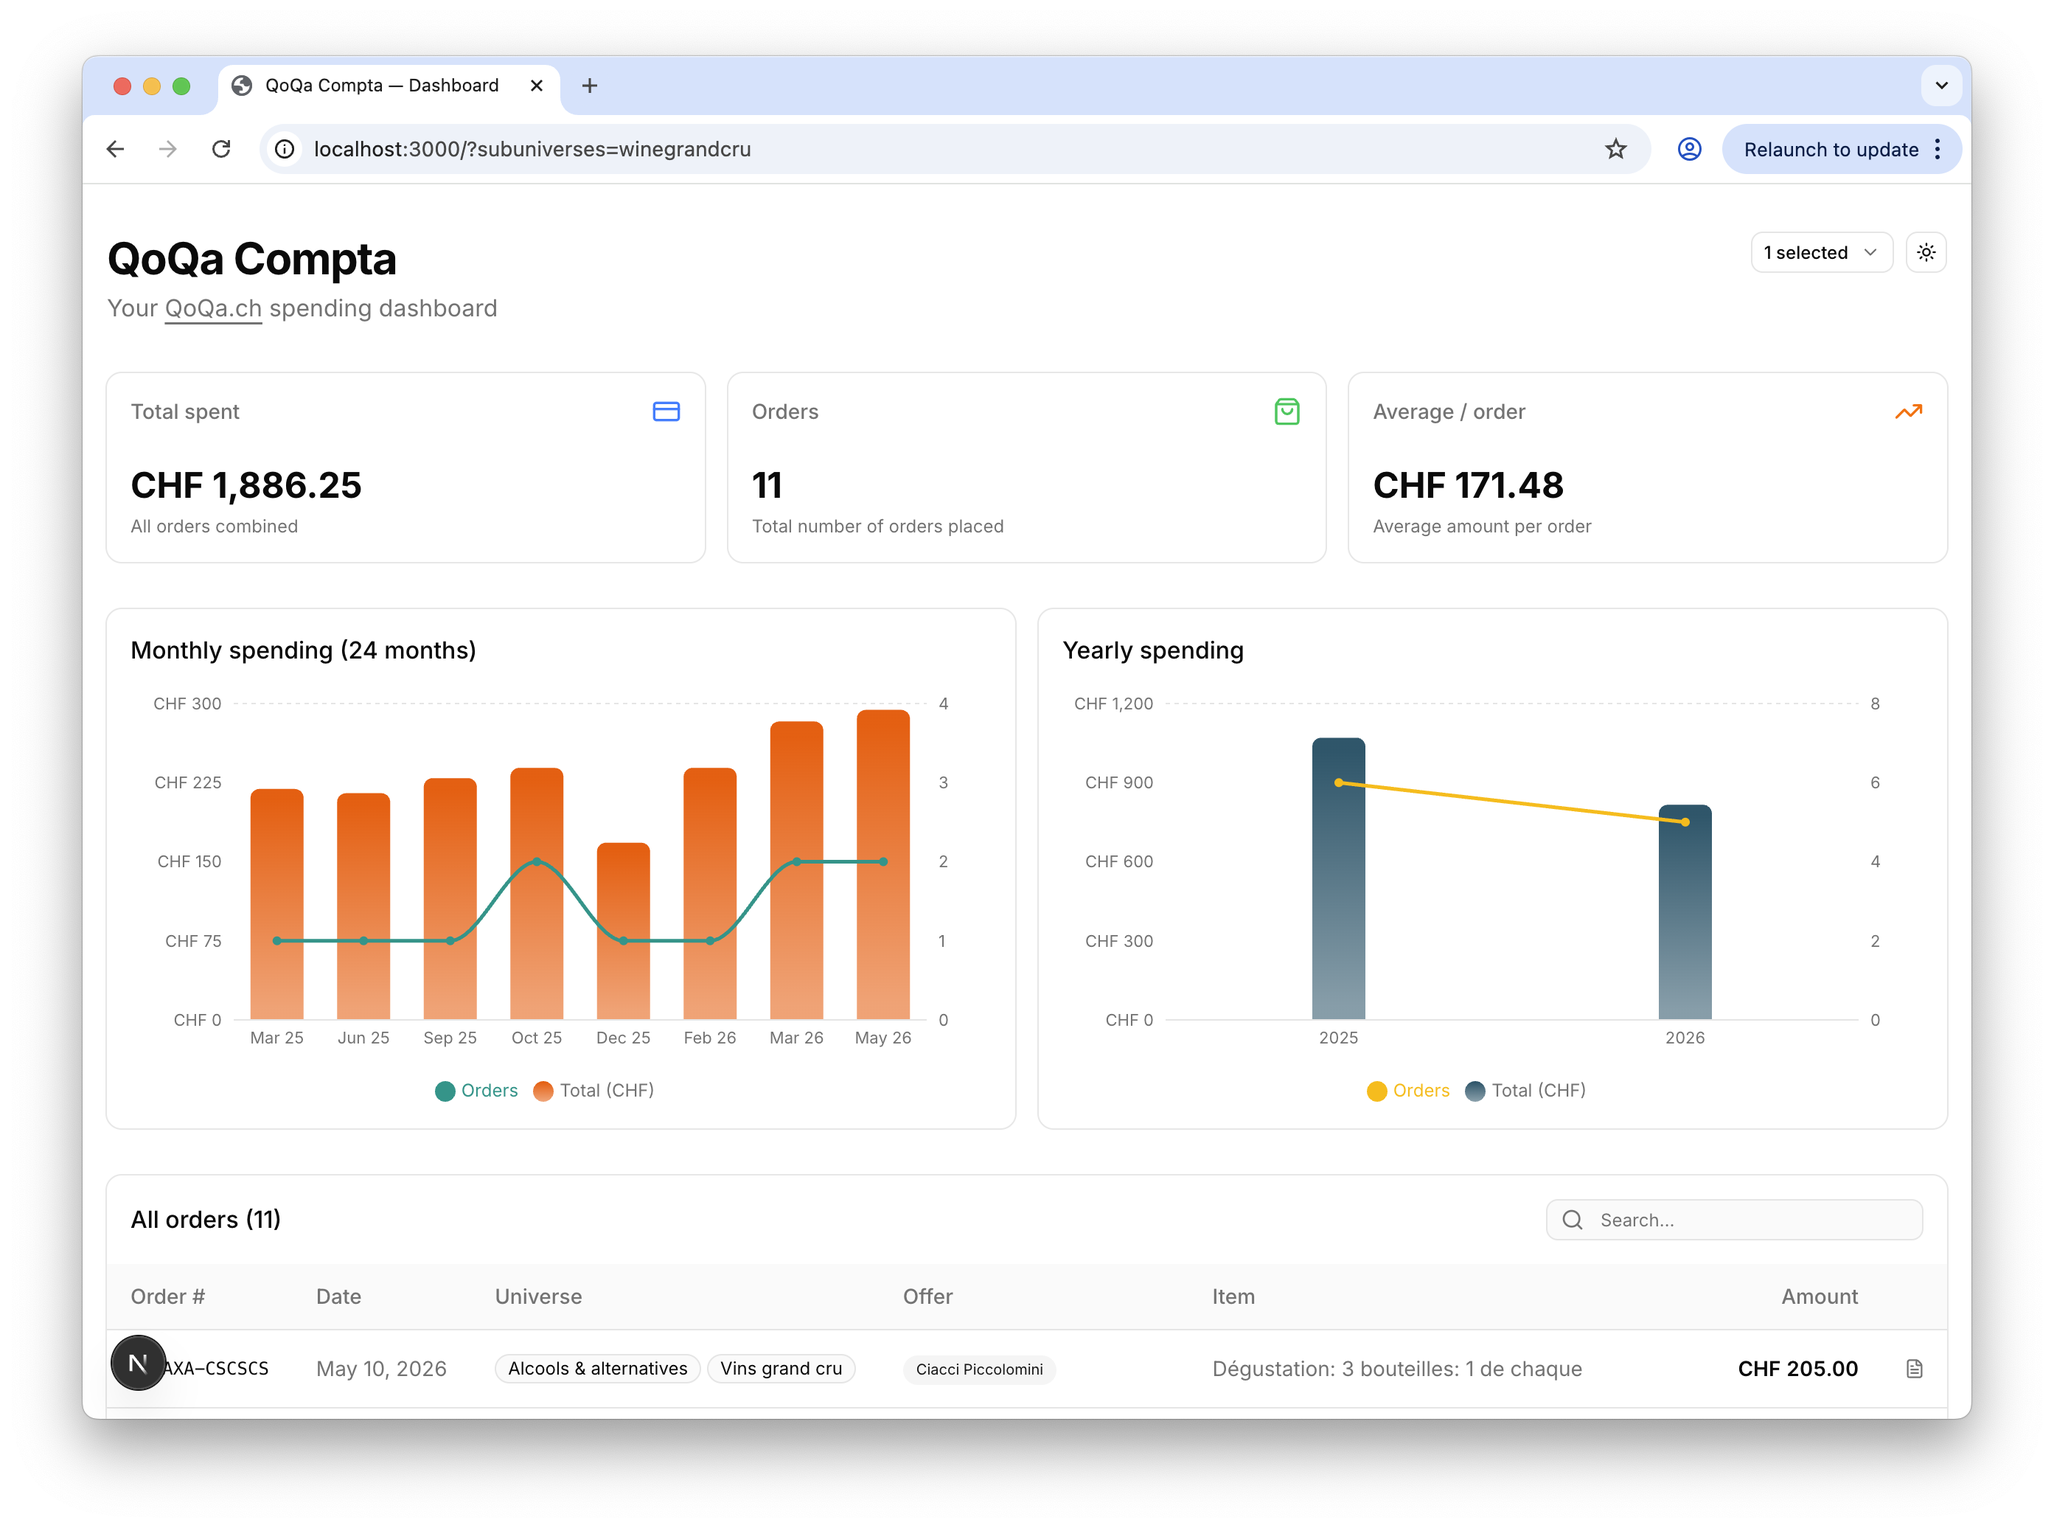
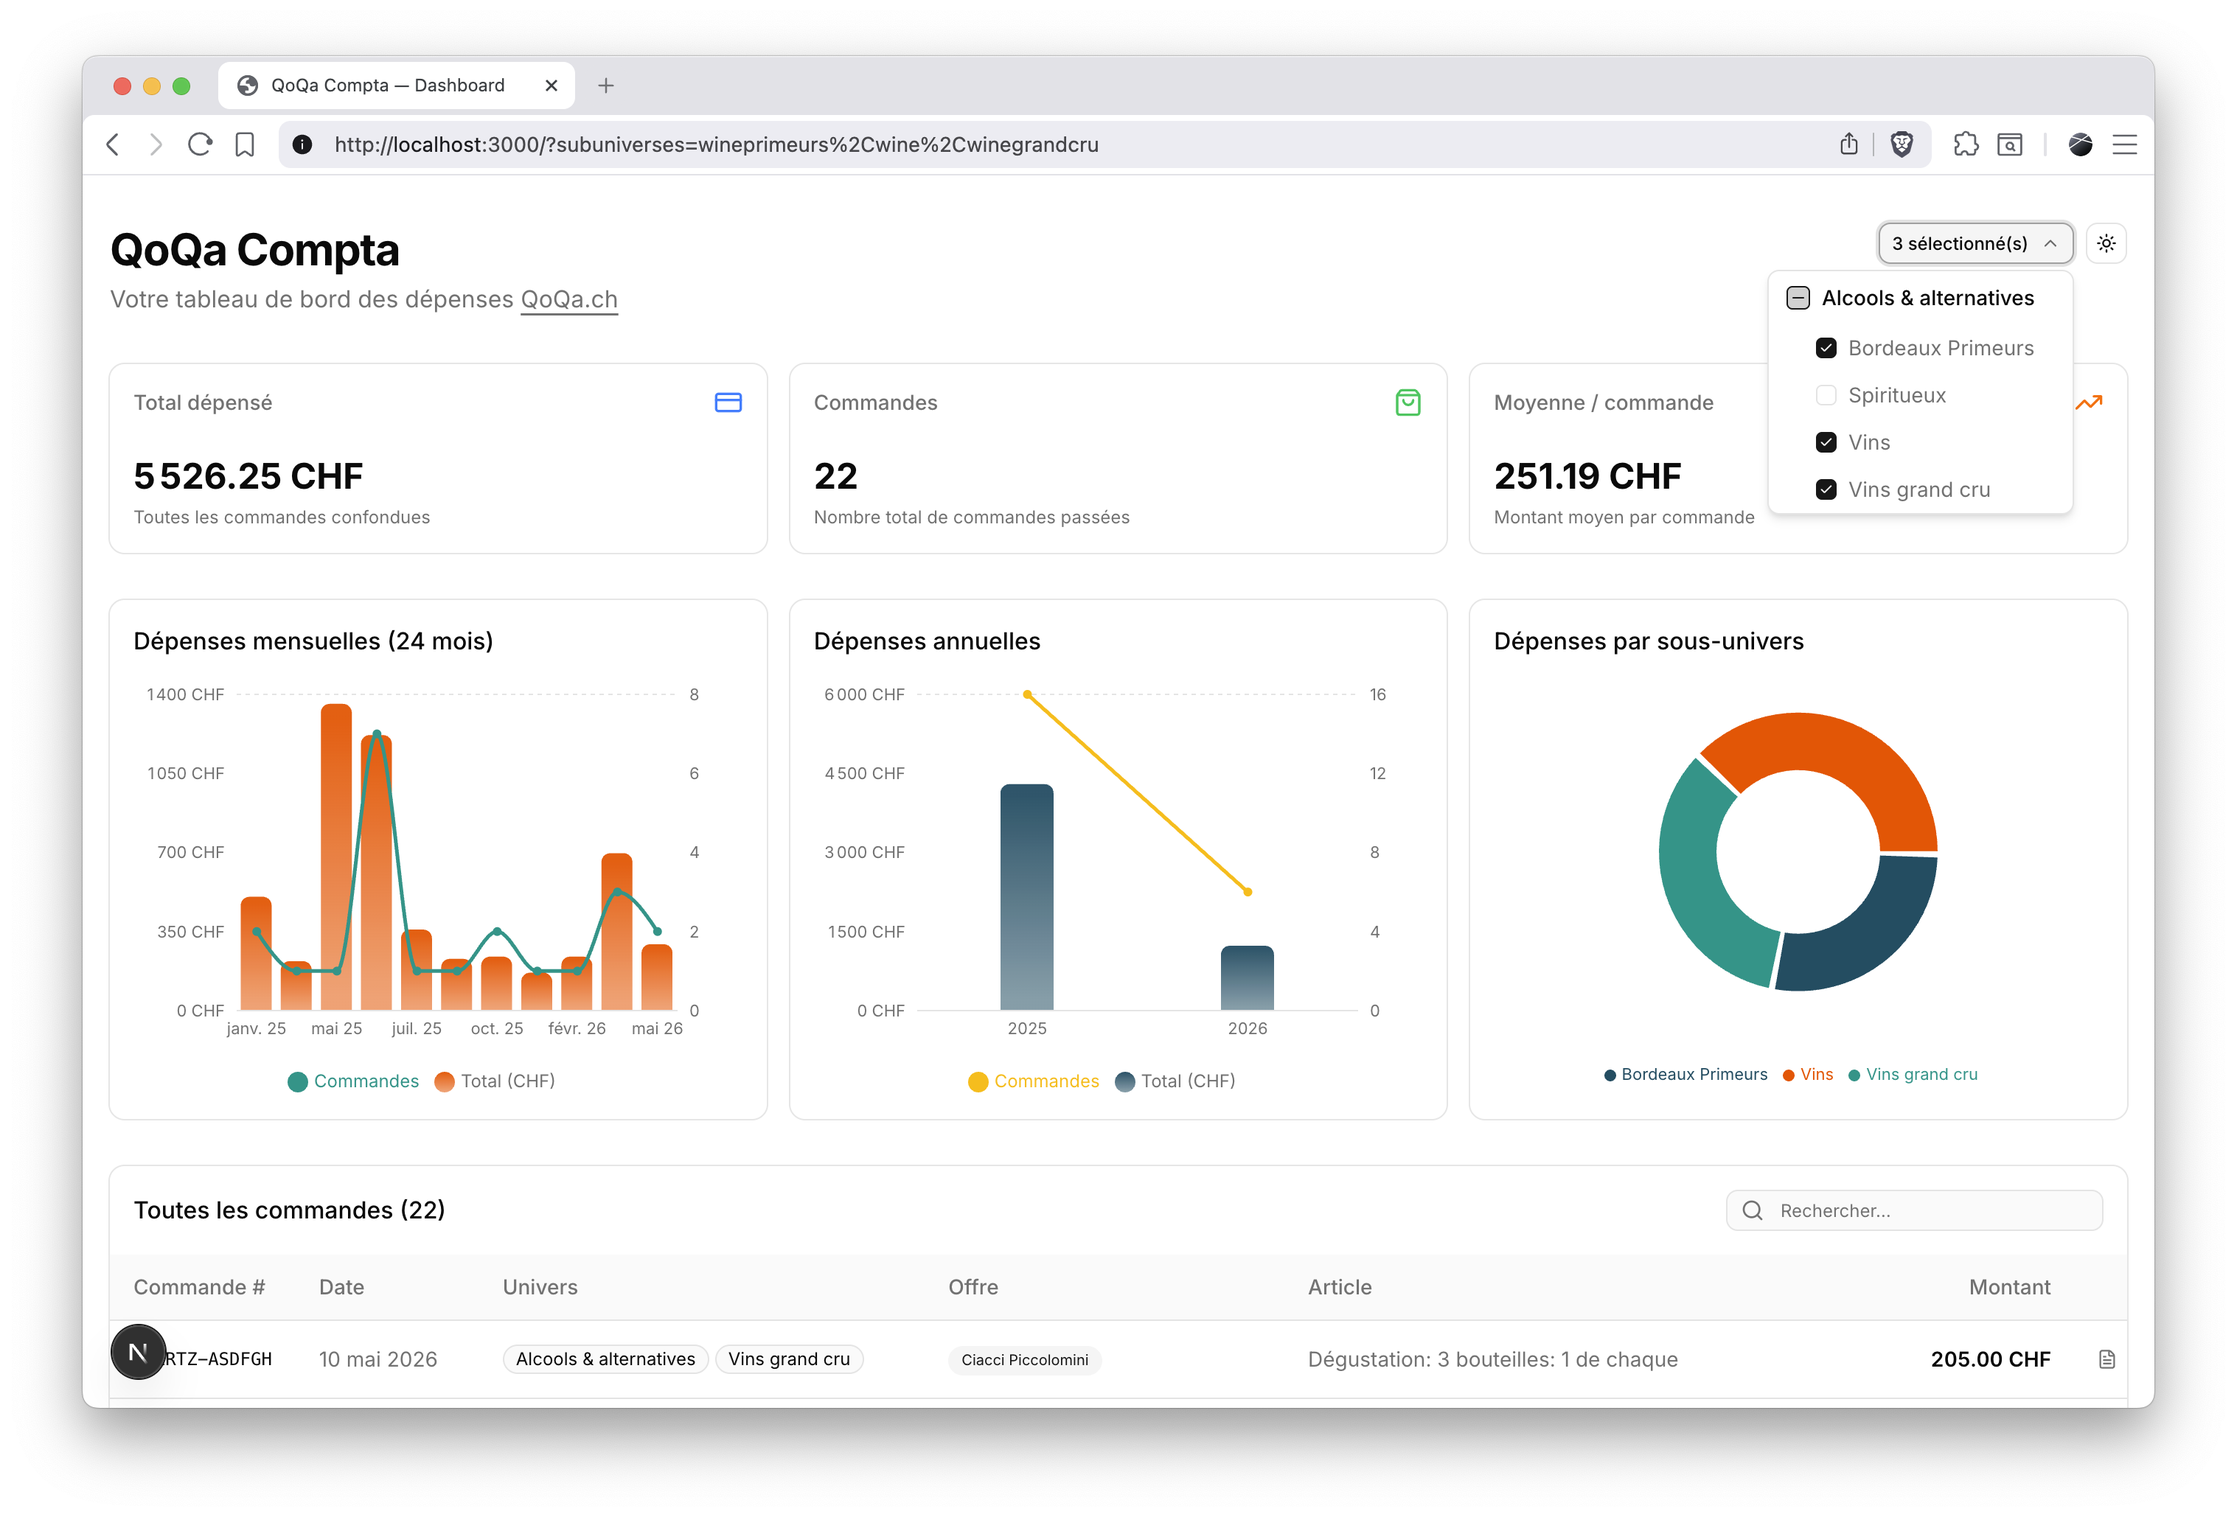
feat: add spending repartition pie chart (#32)

diff --git a/frontend/src/app/page.tsx b/frontend/src/app/page.tsx
@@ -1,15 +1,3 @@
-/**
- * Main dashboard — home page of the QoQa Compta application.
- *
- * Fetches data server-side via the /api/orders API route and renders:
- *   - Universe picker (top-right header)
- *   - Stats cards (total, count, average)
- *   - Spending charts (monthly bar+line, yearly)
- *   - Orders table with search/filters
- *
- * The page is fully dynamic (no ISR) because it reads URL search params
- * to apply the universe filter across all dashboard data.
- */
 import { Suspense } from "react";
 import { getTranslations } from "next-intl/server";
 import {
@@ -19,24 +7,13 @@ import {
   fetchInitialOrders,
   fetchTotalCount,
   fetchUniverses,
+  fetchSpendingByGroup,
 } from "@/lib/queries";
 import { StatsCards } from "@/components/stats-cards";
 import { SpendingChart } from "@/components/spending-chart";
 import { OrdersTable } from "@/components/orders-table";
 import { ThemeToggle } from "@/components/theme-toggle";
 import { UniversePicker } from "@/components/universe-picker";
-
-async function fetchDashboardData(universes: string[], subuniverses: string[]) {
-  const [stats, monthly, yearly, orders, total, availableUniverses] = await Promise.all([
-    fetchStats(universes, subuniverses),
-    fetchMonthlySpending(universes, subuniverses),
-    fetchYearlySpending(universes, subuniverses),
-    fetchInitialOrders(universes, subuniverses),
-    fetchTotalCount(universes, subuniverses),
-    fetchUniverses(),
-  ]);
-  return { stats, monthly, yearly, orders, total, availableUniverses };
-}
 
 export default async function DashboardPage({
   searchParams,
@@ -54,7 +31,49 @@ export default async function DashboardPage({
 
   let data;
   try {
-    data = await fetchDashboardData(selectedUniverses, selectedSubuniverses);
+    // Fetch universe metadata first — needed to resolve sub-universe parent
+    // universes and determine which pie chart mode to use.
+    const availableUniverses = await fetchUniverses();
+
+    // When nothing is selected, treat it as "all universes selected" so that
+    // every downstream query sees a concrete IN-list and returns all rows.
+    const effectiveUniverses =
+      selectedUniverses.length === 0 && selectedSubuniverses.length === 0
+        ? availableUniverses.map((u) => u.identifier)
+        : selectedUniverses;
+    const effectiveSubuniverses = selectedSubuniverses;
+
+    // Build a subuniverse→universe map to count distinct parent universes.
+    const subToUniverse = new Map(
+      availableUniverses.flatMap((u) =>
+        u.subuniverses.map((s) => [s.identifier, u.identifier])
+      )
+    );
+    const activeUniverseIds = new Set([
+      ...effectiveUniverses,
+      ...effectiveSubuniverses
+        .map((s) => subToUniverse.get(s))
+        .filter((v): v is string => v !== undefined),
+    ]);
+    const pieMode: "universe" | "subuniverse" | null =
+      activeUniverseIds.size === 0
+        ? null
+        : activeUniverseIds.size === 1
+        ? "subuniverse"
+        : "universe";
+
+    const [stats, monthly, yearly, orders, total, pieData] = await Promise.all([
+      fetchStats(effectiveUniverses, effectiveSubuniverses),
+      fetchMonthlySpending(effectiveUniverses, effectiveSubuniverses),
+      fetchYearlySpending(effectiveUniverses, effectiveSubuniverses),
+      fetchInitialOrders(effectiveUniverses, effectiveSubuniverses),
+      fetchTotalCount(effectiveUniverses, effectiveSubuniverses),
+      pieMode !== null
+        ? fetchSpendingByGroup(pieMode, effectiveUniverses, effectiveSubuniverses)
+        : Promise.resolve(null),
+    ]);
+
+    data = { stats, monthly, yearly, orders, total, availableUniverses, pieData, pieMode };
   } catch {
     return (
       <main className="container mx-auto px-4 py-8">
@@ -67,7 +86,7 @@ export default async function DashboardPage({
     );
   }
 
-  const { stats, monthly, yearly, orders, total, availableUniverses } = data;
+  const { stats, monthly, yearly, orders, total, availableUniverses, pieData, pieMode } = data;
 
   const subuniverseNames: Record<string, string> = Object.fromEntries(
     availableUniverses.flatMap((u) => u.subuniverses.map((s) => [s.identifier, s.name]))
@@ -113,7 +132,7 @@ export default async function DashboardPage({
 
       {/* Spending charts */}
       <Suspense fallback={<div className="h-72 animate-pulse rounded-xl bg-muted" />}>
-        <SpendingChart monthly={monthly} yearly={yearly} />
+        <SpendingChart monthly={monthly} yearly={yearly} pieData={pieData} pieMode={pieMode} />
       </Suspense>
 
       {/* Orders table */}

diff --git a/frontend/src/lib/queries.ts b/frontend/src/lib/queries.ts
@@ -7,12 +7,12 @@
  * SQLite caveats vs PostgreSQL:
  *  - LIKE instead of ILIKE (case-insensitive for ASCII only)
  *  - strftime() instead of TO_CHAR() / EXTRACT()
- *  - date('now', '-24 months') instead of NOW() - INTERVAL '24 months'
+ *  - date('now', '-N months') instead of NOW() - INTERVAL 'N months'
  *  - No ::float / ::int casts — CAST(x AS REAL/INTEGER) used instead
  */
 import { and, between, eq, getTableColumns, gte, inArray, lte, or, sql, SQL } from "drizzle-orm";
 import { db, isSqlite, qoqaOrders, qoqaSubuniverses, qoqaUniverses } from "./db";
-import type { OrderStats, MonthlySpending, SubuniverseOption, UniverseOption, YearlySpending } from "@/types/order";
+import type { OrderStats, MonthlySpending, SpendingByGroup, SubuniverseOption, UniverseOption, YearlySpending } from "@/types/order";
 import type { QoqaOrder } from "@/types/order";
 
 // ── Helpers ──────────────────────────────────────────────────────────────────
@@ -41,15 +41,10 @@ function yearOf(col: SQL): SQL<number> {
     : sql<number>`EXTRACT(YEAR FROM ${col})::int`;
 }
 
-function monthsAgo24(): SQL<string> {
-  return isSqlite
-    ? sql<string>`date('now', '-24 months')`
-    : sql<string>`CURRENT_DATE - INTERVAL '24 months'`;
-}
-
 /**
  * Builds a WHERE clause that filters by universe AND/OR subuniverse.
- * Returns FALSE when both lists are empty (no selection = zero results).
+ * Returns FALSE when both lists are empty — callers must expand an empty
+ * selection to the full list of identifiers before calling this function.
  *
  * - universes: filter orders where universe IN [...]
  * - subuniverses: filter orders where subuniverse IN [...]
@@ -176,7 +171,7 @@ export async function fetchMonthlySpending(
       count: asInt(sql`COUNT(*)`),
     })
     .from(qoqaOrders)
-    .where(and(sql`${qoqaOrders.order_date} >= ${monthsAgo24()}`, catClause))
+    .where(catClause)
     .groupBy(month)
     .orderBy(month) as Promise<MonthlySpending[]>;
 }
@@ -197,6 +192,57 @@ export async function fetchYearlySpending(
     .where(where)
     .groupBy(year)
     .orderBy(year) as Promise<YearlySpending[]>;
+}
+
+/**
+ * Returns spending totals grouped by universe or subuniverse for the pie chart.
+ *
+ * - mode "universe":    one row per universe, useful when multiple universes are selected
+ * - mode "subuniverse": one row per subuniverse, useful when a single universe is in scope
+ *
+ * The WHERE clause is the same as other queries (universe IN [...] OR subuniverse IN [...]).
+ * Results are ordered by total descending (largest slice first).
+ */
+export async function fetchSpendingByGroup(
+  mode: "universe" | "subuniverse",
+  universes: string[],
+  subuniverses: string[]
+): Promise<SpendingByGroup[]> {
+  const where = buildUniverseWhereClause(universes, subuniverses);
+
+  if (mode === "subuniverse") {
+    const rows = await db
+      .select({
+        identifier: sql<string>`${qoqaOrders.subuniverse}`,
+        name: sql<string>`COALESCE(${qoqaSubuniverses.name}, ${qoqaOrders.subuniverse})`,
+        total: asFloat(sql`SUM(${qoqaOrders.amount_chf})`),
+      })
+      .from(qoqaOrders)
+      .leftJoin(
+        qoqaSubuniverses,
+        sql`${qoqaOrders.subuniverse} = ${qoqaSubuniverses.identifier}`
+      )
+      .where(and(where, sql`${qoqaOrders.subuniverse} IS NOT NULL`))
+      .groupBy(sql`${qoqaOrders.subuniverse}`, sql`${qoqaSubuniverses.name}`)
+      .orderBy(sql`SUM(${qoqaOrders.amount_chf}) DESC`);
+    return rows as SpendingByGroup[];
+  }
+
+  const rows = await db
+    .select({
+      identifier: sql<string>`${qoqaOrders.universe}`,
+      name: sql<string>`COALESCE(${qoqaUniverses.name}, ${qoqaOrders.universe})`,
+      total: asFloat(sql`SUM(${qoqaOrders.amount_chf})`),
+    })
+    .from(qoqaOrders)
+    .leftJoin(
+      qoqaUniverses,
+      sql`${qoqaOrders.universe} = ${qoqaUniverses.universe_tracking_identifier}`
+    )
+    .where(and(where, sql`${qoqaOrders.universe} IS NOT NULL`))
+    .groupBy(sql`${qoqaOrders.universe}`, sql`${qoqaUniverses.name}`)
+    .orderBy(sql`SUM(${qoqaOrders.amount_chf}) DESC`);
+  return rows as SpendingByGroup[];
 }
 
 export interface OrdersFilter {

diff --git a/frontend/src/components/spending-pie-chart.tsx b/frontend/src/components/spending-pie-chart.tsx
@@ -1,0 +1,88 @@
+/**
+ * SpendingPieChart — donut chart showing spending repartition by universe or sub-universe.
+ *
+ * Rendered when the user has an active universe filter:
+ *   - 1 distinct parent universe in scope → breakdown by sub-universe
+ *   - ≥2 distinct parent universes in scope → breakdown by universe
+ */
+"use client";
+
+import { PieChart, Pie, Cell, Tooltip, Legend, ResponsiveContainer } from "recharts";
+import { Card, CardContent, CardHeader, CardTitle } from "@/components/ui/card";
+import { useFormatter } from "@/lib/formatter-context";
+import type { SpendingByGroup } from "@/types/order";
+
+const CHART_COLORS = [
+  "var(--chart-1)",
+  "var(--chart-2)",
+  "var(--chart-3)",
+  "var(--chart-4)",
+  "var(--chart-5)",
+];
+
+interface SpendingPieChartProps {
+  data: SpendingByGroup[];
+  title: string;
+}
+
+export function SpendingPieChart({ data, title }: SpendingPieChartProps) {
+  const { formatCHF } = useFormatter();
+  const grandTotal = data.reduce((sum, d) => sum + d.total, 0);
+
+  return (
+    <Card>
+      <CardHeader>
+        <CardTitle className="text-base">{title}</CardTitle>
+      </CardHeader>
+      <CardContent>
+        <ResponsiveContainer width="100%" height={280}>
+          <PieChart>
+            <Pie
+              data={data}
+              dataKey="total"
+              nameKey="name"
+              cx="50%"
+              cy="45%"
+              innerRadius={55}
+              outerRadius={95}
+              paddingAngle={2}
+            >
+              {data.map((entry, index) => (
+                <Cell
+                  key={entry.identifier}
+                  fill={CHART_COLORS[index % CHART_COLORS.length]}
+                />
+              ))}
+            </Pie>
+            <Tooltip
+              contentStyle={{
+                backgroundColor: "var(--popover)",
+                border: "1px solid var(--border)",
+                borderRadius: "var(--radius)",
+                color: "var(--popover-foreground)",
+                fontSize: 12,
+                boxShadow: "0 4px 12px rgb(0 0 0 / 0.08)",
+              }}
+              formatter={(value, name) => {
+                const pct =
+                  grandTotal > 0
+                    ? ((Number(value) / grandTotal) * 100).toFixed(1)
+                    : "0";
+                return [`${formatCHF(Number(value))} · ${pct}%`, name];
+              }}
+            />
+            <Legend
+              iconType="circle"
+              iconSize={8}
+              wrapperStyle={{
+                fontSize: 11,
+                color: "var(--muted-foreground)",
+                paddingTop: 8,
+              }}
+            />
+          </PieChart>
+        </ResponsiveContainer>
+      </CardContent>
+    </Card>
+  );
+}

diff --git a/frontend/src/components/spending-chart.tsx b/frontend/src/components/spending-chart.tsx
@@ -19,11 +19,14 @@ import {
 import { Card, CardContent, CardHeader, CardTitle } from "@/components/ui/card";
 import { useFormatter } from "@/lib/formatter-context";
 import { useTranslations } from "next-intl";
-import type { MonthlySpending, YearlySpending } from "@/types/order";
+import type { MonthlySpending, SpendingByGroup, YearlySpending } from "@/types/order";
+import { SpendingPieChart } from "@/components/spending-pie-chart";
 
 interface SpendingChartProps {
   monthly: MonthlySpending[];
   yearly: YearlySpending[];
+  pieData?: SpendingByGroup[] | null;
+  pieMode?: "universe" | "subuniverse" | null;
 }
 
 interface ChartCardProps {
@@ -139,7 +142,7 @@ function ChartCard({ title, data, gradientId, barColor, lineColor }: ChartCardPr
   );
 }
 
-export function SpendingChart({ monthly, yearly }: SpendingChartProps) {
+export function SpendingChart({ monthly, yearly, pieData, pieMode }: SpendingChartProps) {
   const { formatMonth } = useFormatter();
   const t = useTranslations("SpendingChart");
 
@@ -155,8 +158,13 @@ export function SpendingChart({ monthly, yearly }: SpendingChartProps) {
     orders: y.count,
   }));
 
+  const hasPie = pieData && pieData.length > 0;
+  const pieTitle = pieMode === "subuniverse"
+    ? t("pieBySubuniverseTitle")
+    : t("pieByUniverseTitle");
+
   return (
-    <div className="grid gap-4 md:grid-cols-2">
+    <div className={hasPie ? "grid gap-4 grid-cols-1 lg:grid-cols-3" : "grid gap-4 md:grid-cols-2"}>
       <ChartCard
         title={t("monthlyTitle")}
         data={monthlyData}
@@ -171,6 +179,9 @@ export function SpendingChart({ monthly, yearly }: SpendingChartProps) {
         barColor="var(--chart-3)"
         lineColor="var(--chart-4)"
       />
+      {hasPie && (
+        <SpendingPieChart data={pieData} title={pieTitle} />
+      )}
     </div>
   );
 }

diff --git a/frontend/src/types/order.ts b/frontend/src/types/order.ts
@@ -63,3 +63,9 @@ export interface YearlySpending {
   total: number;
   count: number;
 }
+
+export interface SpendingByGroup {
+  identifier: string;
+  name: string;
+  total: number;
+}

diff --git a/README.md b/README.md
@@ -97,7 +97,7 @@ The UI language is automatically detected from your browser's `Accept-Language` 
 
 Dashboard features:
 - **Stats cards** — total spent, number of orders, average per order
-- **Spending charts** — monthly (last 24 months) and yearly bar + line charts
+- **Spending charts** — monthly and yearly bar + line charts
 - **Orders table** — searchable, paginated list of all orders
 - **Invoice PDF viewer** — every order with a stored invoice exposes a "View
   invoice" button that opens the PDF in an in-app popup using the browser's
